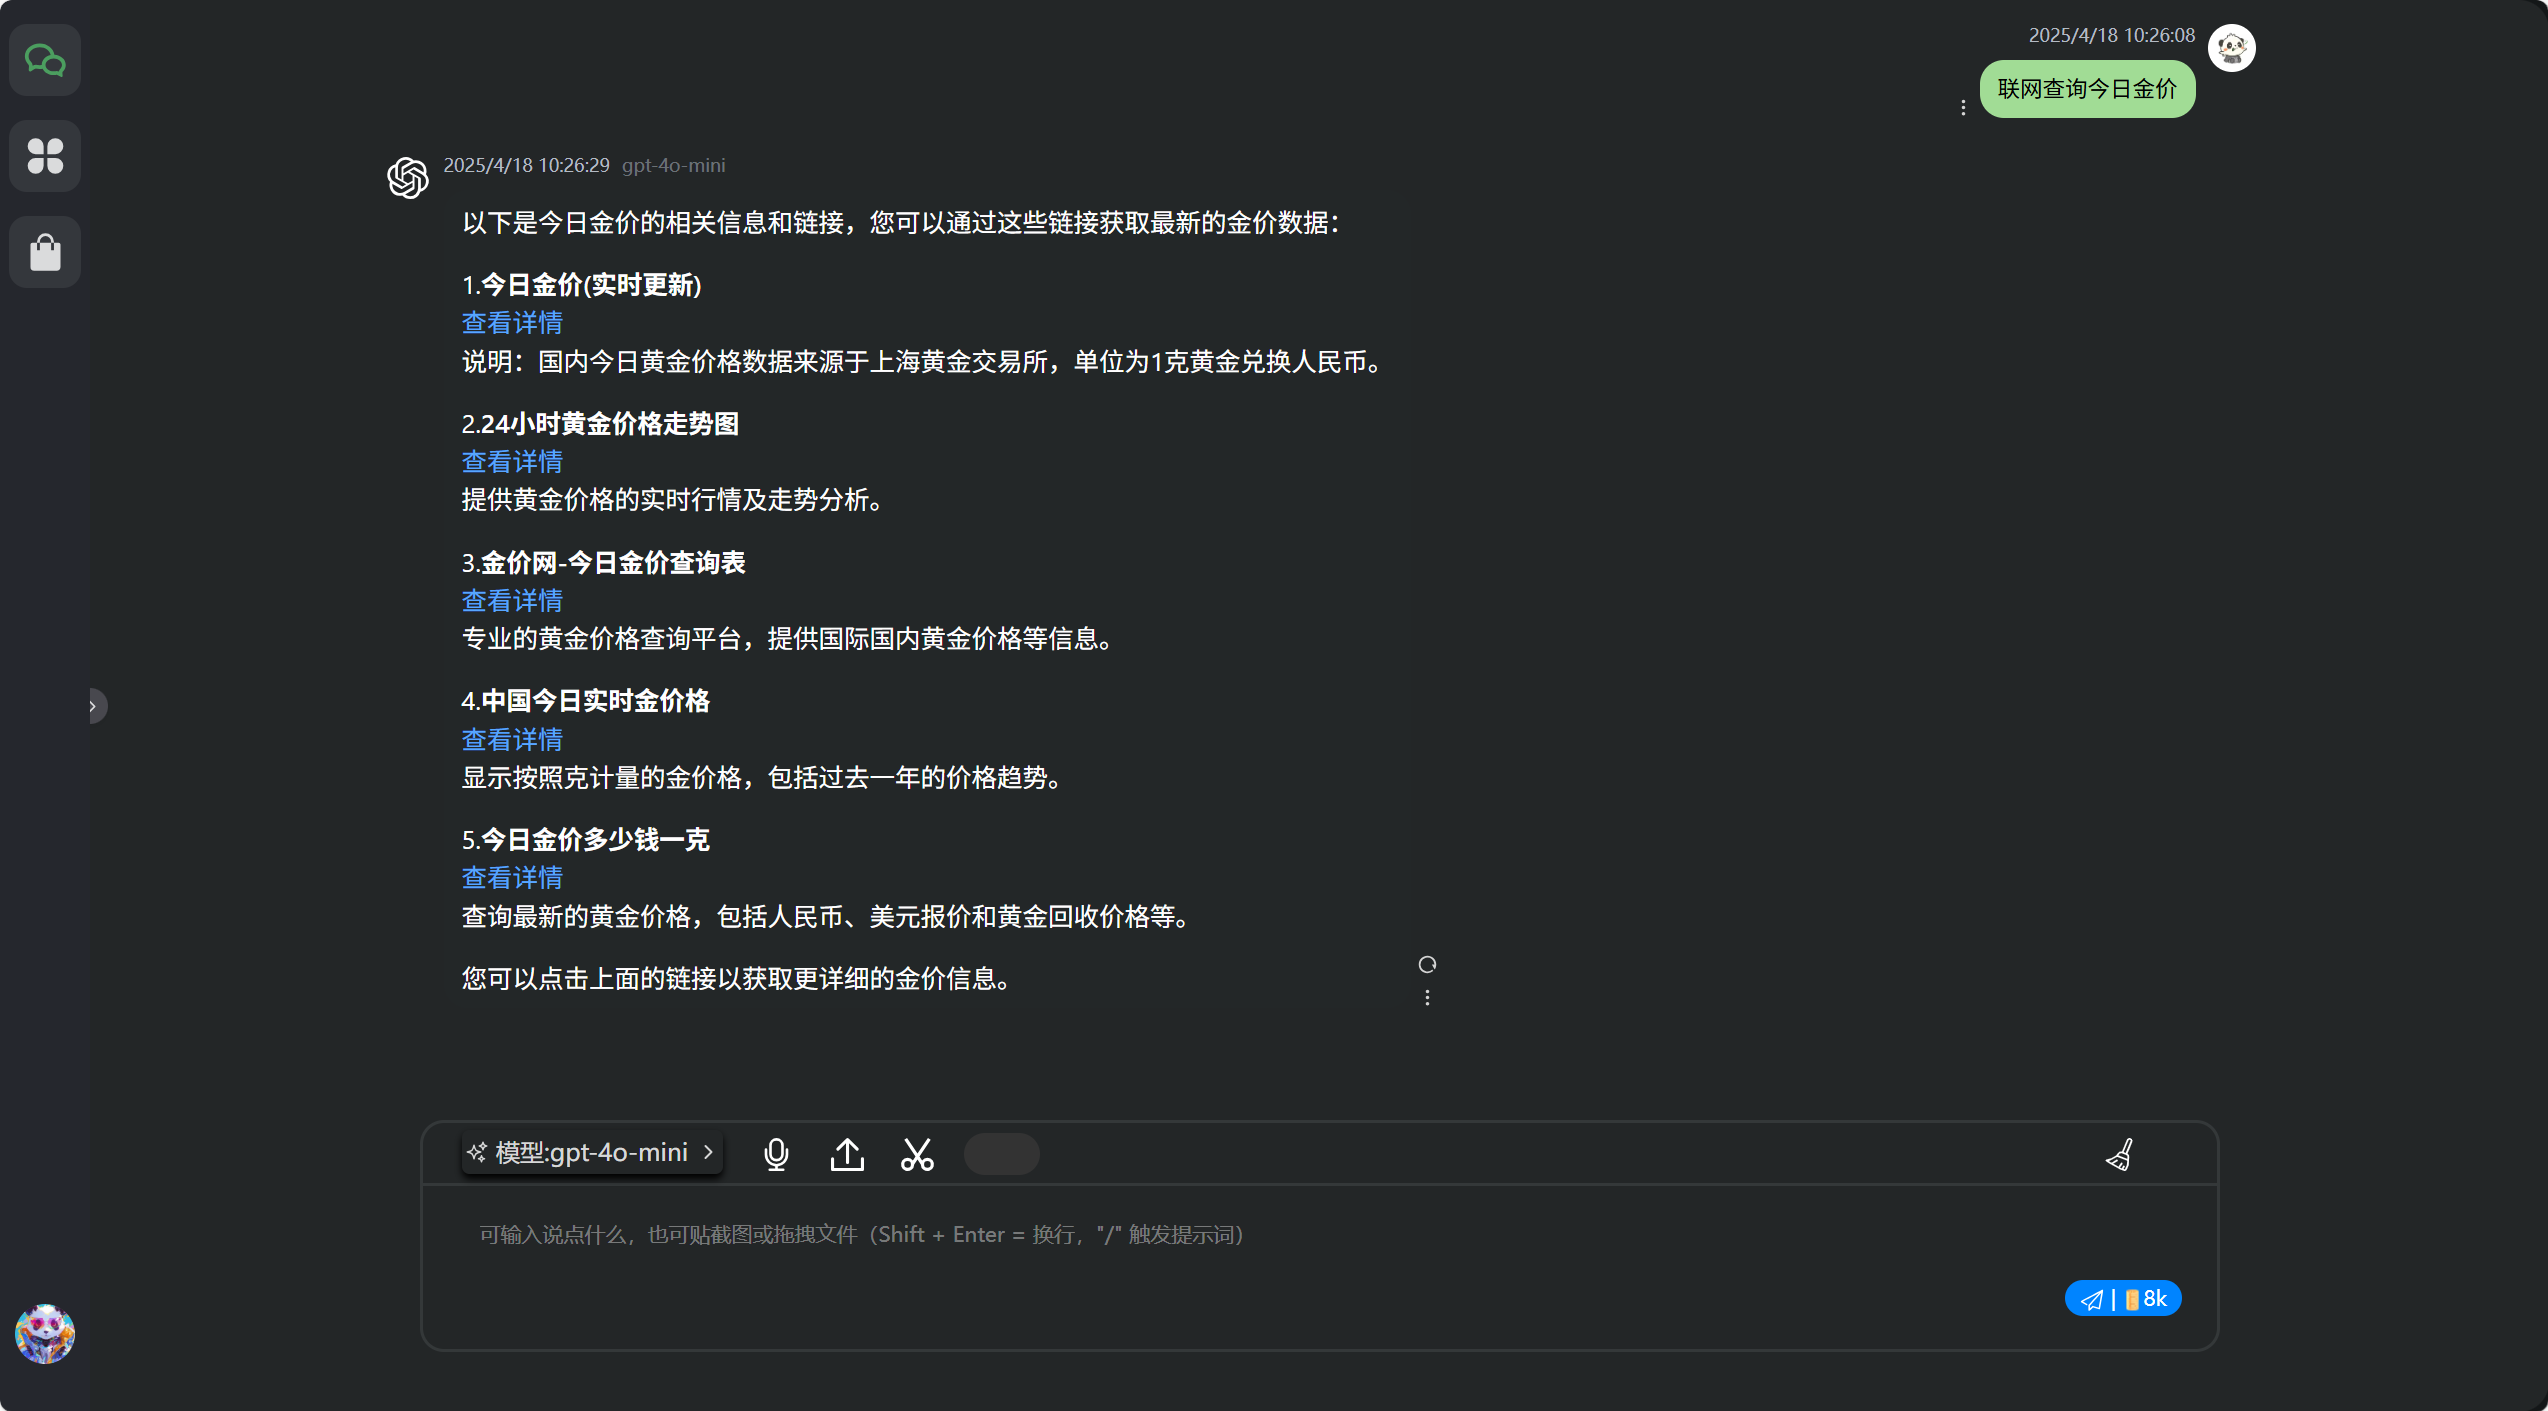
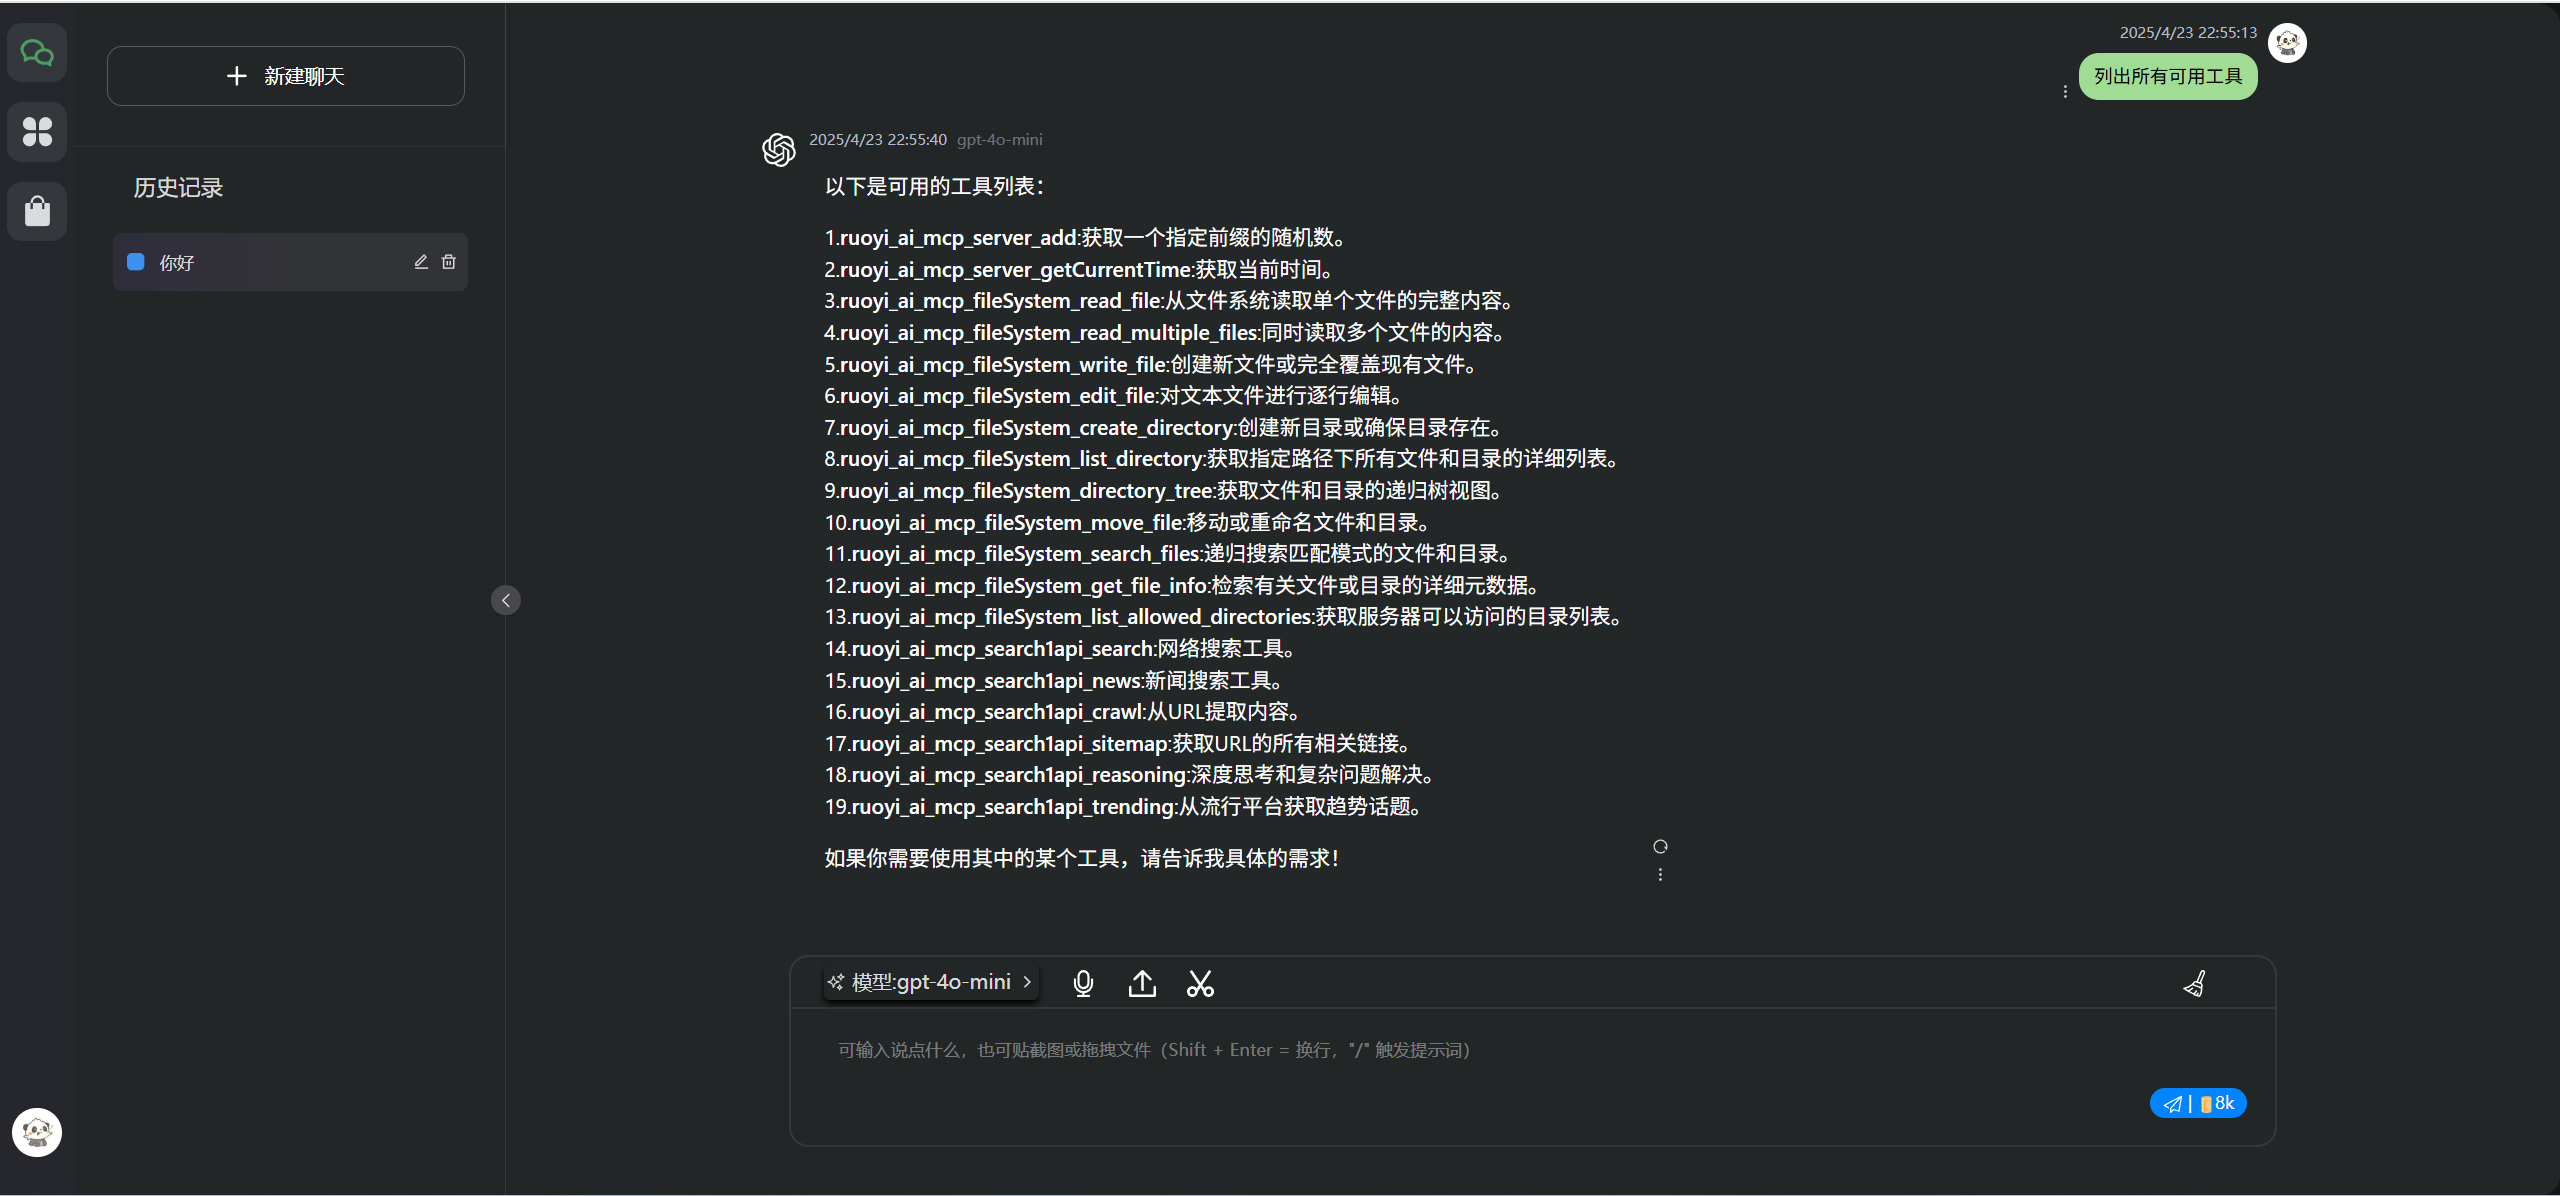
fix: 1.合并知识库对话接口 2.修复web无法查询套餐信息

diff --git a/ruoyi-modules/ruoyi-chat/src/main/java/org/ruoyi/chat/controller/chat/ChatConfigController.java b/ruoyi-modules/ruoyi-chat/src/main/java/org/ruoyi/chat/controller/chat/ChatConfigController.java
@@ -75,12 +75,19 @@ public class ChatConfigController extends BaseController {
     /**
      * 新增配置信息
      */
-    @SaCheckPermission("system:config:add")
-    @Log(title = "配置信息", businessType = BusinessType.INSERT)
+    @SaCheckPermission("system:config:edit")
+    @Log(title = "新增或者修改配置信息", businessType = BusinessType.UPDATE)
     @RepeatSubmit()
-    @PostMapping()
-    public R<Void> add(@Validated(AddGroup.class) @RequestBody ChatConfigBo bo) {
-        return toAjax(chatConfigService.insertByBo(bo));
+    @PostMapping("/saveOrUpdate")
+    public R<Void> saveOrUpdate(@RequestBody List<ChatConfigBo> boList) {
+        for (ChatConfigBo chatConfigBo : boList) {
+            if(chatConfigBo.getId() == null){
+                chatConfigService.insertByBo(chatConfigBo);
+            }else {
+                chatConfigService.updateByBo(chatConfigBo);
+            }
+        }
+        return toAjax(true);
     }
 
     /**

diff --git a/ruoyi-modules/ruoyi-chat/src/main/java/org/ruoyi/chat/controller/chat/ChatPackagePlanController.java b/ruoyi-modules/ruoyi-chat/src/main/java/org/ruoyi/chat/controller/chat/ChatPackagePlanController.java
@@ -46,6 +46,14 @@ public class ChatPackagePlanController extends BaseController {
     }
 
     /**
+     * 查询套餐列表-不分页
+     */
+    @GetMapping("/listPlan")
+    public R<List<ChatPackagePlanVo>> listPlan() {
+        return R.ok(chatPackagePlanService.queryList(new ChatPackagePlanBo()));
+    }
+
+    /**
      * 导出套餐管理列表
      */
     @SaCheckPermission("system:packagePlan:export")

diff --git a/README.md b/README.md
@@ -63,17 +63,18 @@
   用户名: admin 密码：admin123
 
 ### 源码地址
-[1]github
-- 前端服务-用户端: https://github.com/ageerle/ruoyi-web
-- 前端服务-管理端: https://github.com/ageerle/ruoyi-admin
-- 前端服务-小程序端: https://github.com/ageerle/ruoyi-uniapp
-- 后端服务：https://github.com/ageerle/ruoyi-ai
 
-[2]gitee
+[1]gitee
 - 前端服务-用户端: https://gitee.com/ageerle/ruoyi-web
 - 前端服务-管理端: https://gitee.com/ageerle/ruoyi-admin
 - 前端服务-小程序端: https://gitee.com/ageerle/ruoyi-uniapp
 - 后端服务：https://gitee.com/ageerle/ruoyi-ai
+
+[2]github
+- 前端服务-用户端: https://github.com/ageerle/ruoyi-web
+- 前端服务-管理端: https://github.com/ageerle/ruoyi-admin
+- 前端服务-小程序端: https://github.com/ageerle/ruoyi-uniapp
+- 后端服务：https://github.com/ageerle/ruoyi-ai
 
 [3]gitcode
 - 前端服务-用户端：https://gitcode.com/ageerle/ruoyi-web
@@ -83,7 +84,7 @@
 
 ### 配套文档
 - 配套文档: https://doc.pandarobot.chat
-  - 项目部署文档：https://doc.pandarobot.chat/guide/introduction/
+- 项目部署文档：https://doc.pandarobot.chat/guide/introduction/
 
 ### 核心功能
 1. 全套开源系统：提供完整的前端应用、后台管理以及小程序应用，基于MIT协议，开箱即用。
@@ -96,7 +97,16 @@
 
 ### 项目演示
 
-#### mcp支持(需要切换dev分支 下周发布正式版)
+#### mcp支持
+
+### 如何使用
+1. ruoyi-admin\src\main\resources\application.yml中mcp.client.enabled改为true
+2. application.yml中配置openai api-key(用于推理使用那个工具,并构建工具所需参数)
+3. 启动[ruoyi-mcp-server]
+4. [mcp-server.json]中配置fileSystem.command(npx本地安装路径)
+5. 指定fileSystem操作目录(本地必须存在指定的目录)
+6. 配置search1api.env.SEARCH1API_KEY 申请地址：https://www.search1api.com/
+7. 详情教程：https://blog.csdn.net/weixin_42416319/article/details/147385808
 <div style="display: flex; flex-wrap: wrap; gap: 20px; justify-content: center;">
   <img src="image/mcp-01.png" alt="drawing" style="width: 600px; height: 300px; border: 2px solid #ddd; border-radius: 8px; box-shadow: 0 4px 8px rgba(0,0,0,0.1);"/>
   <img src="image/mcp-02.png" alt="drawing" style="width: 600px; height: 300px; border: 2px solid #ddd; border-radius: 8px; box-shadow: 0 4px 8px rgba(0,0,0,0.1);"/>
@@ -215,9 +225,12 @@
 
 ###  开发计划
 
-- 流程编排
+| 主题 | 方向                                | 时间节点   | 
+| --- |-----------------------------------|--------| 
+| 前端简化版 | 与element-plus-x框架合作，推出基于该框架的前端简化版 | 2025.5 | 
+| agent2agent | Agent2Agent协议支持                   | 2025.6 | 
+| 流程编排 | 通过可视化界面和灵活的配置方式，快速构建AI应用          | 2025.7 | 
 
-通过流程编排功能，用户可以将不同的模型按照业务逻辑进行有序连接。这将解决单一模型能力不足的问题，充分发挥多个模型的协同作用，从而更好地满足企业的复杂业务需求。
 
 -  感谢
 
